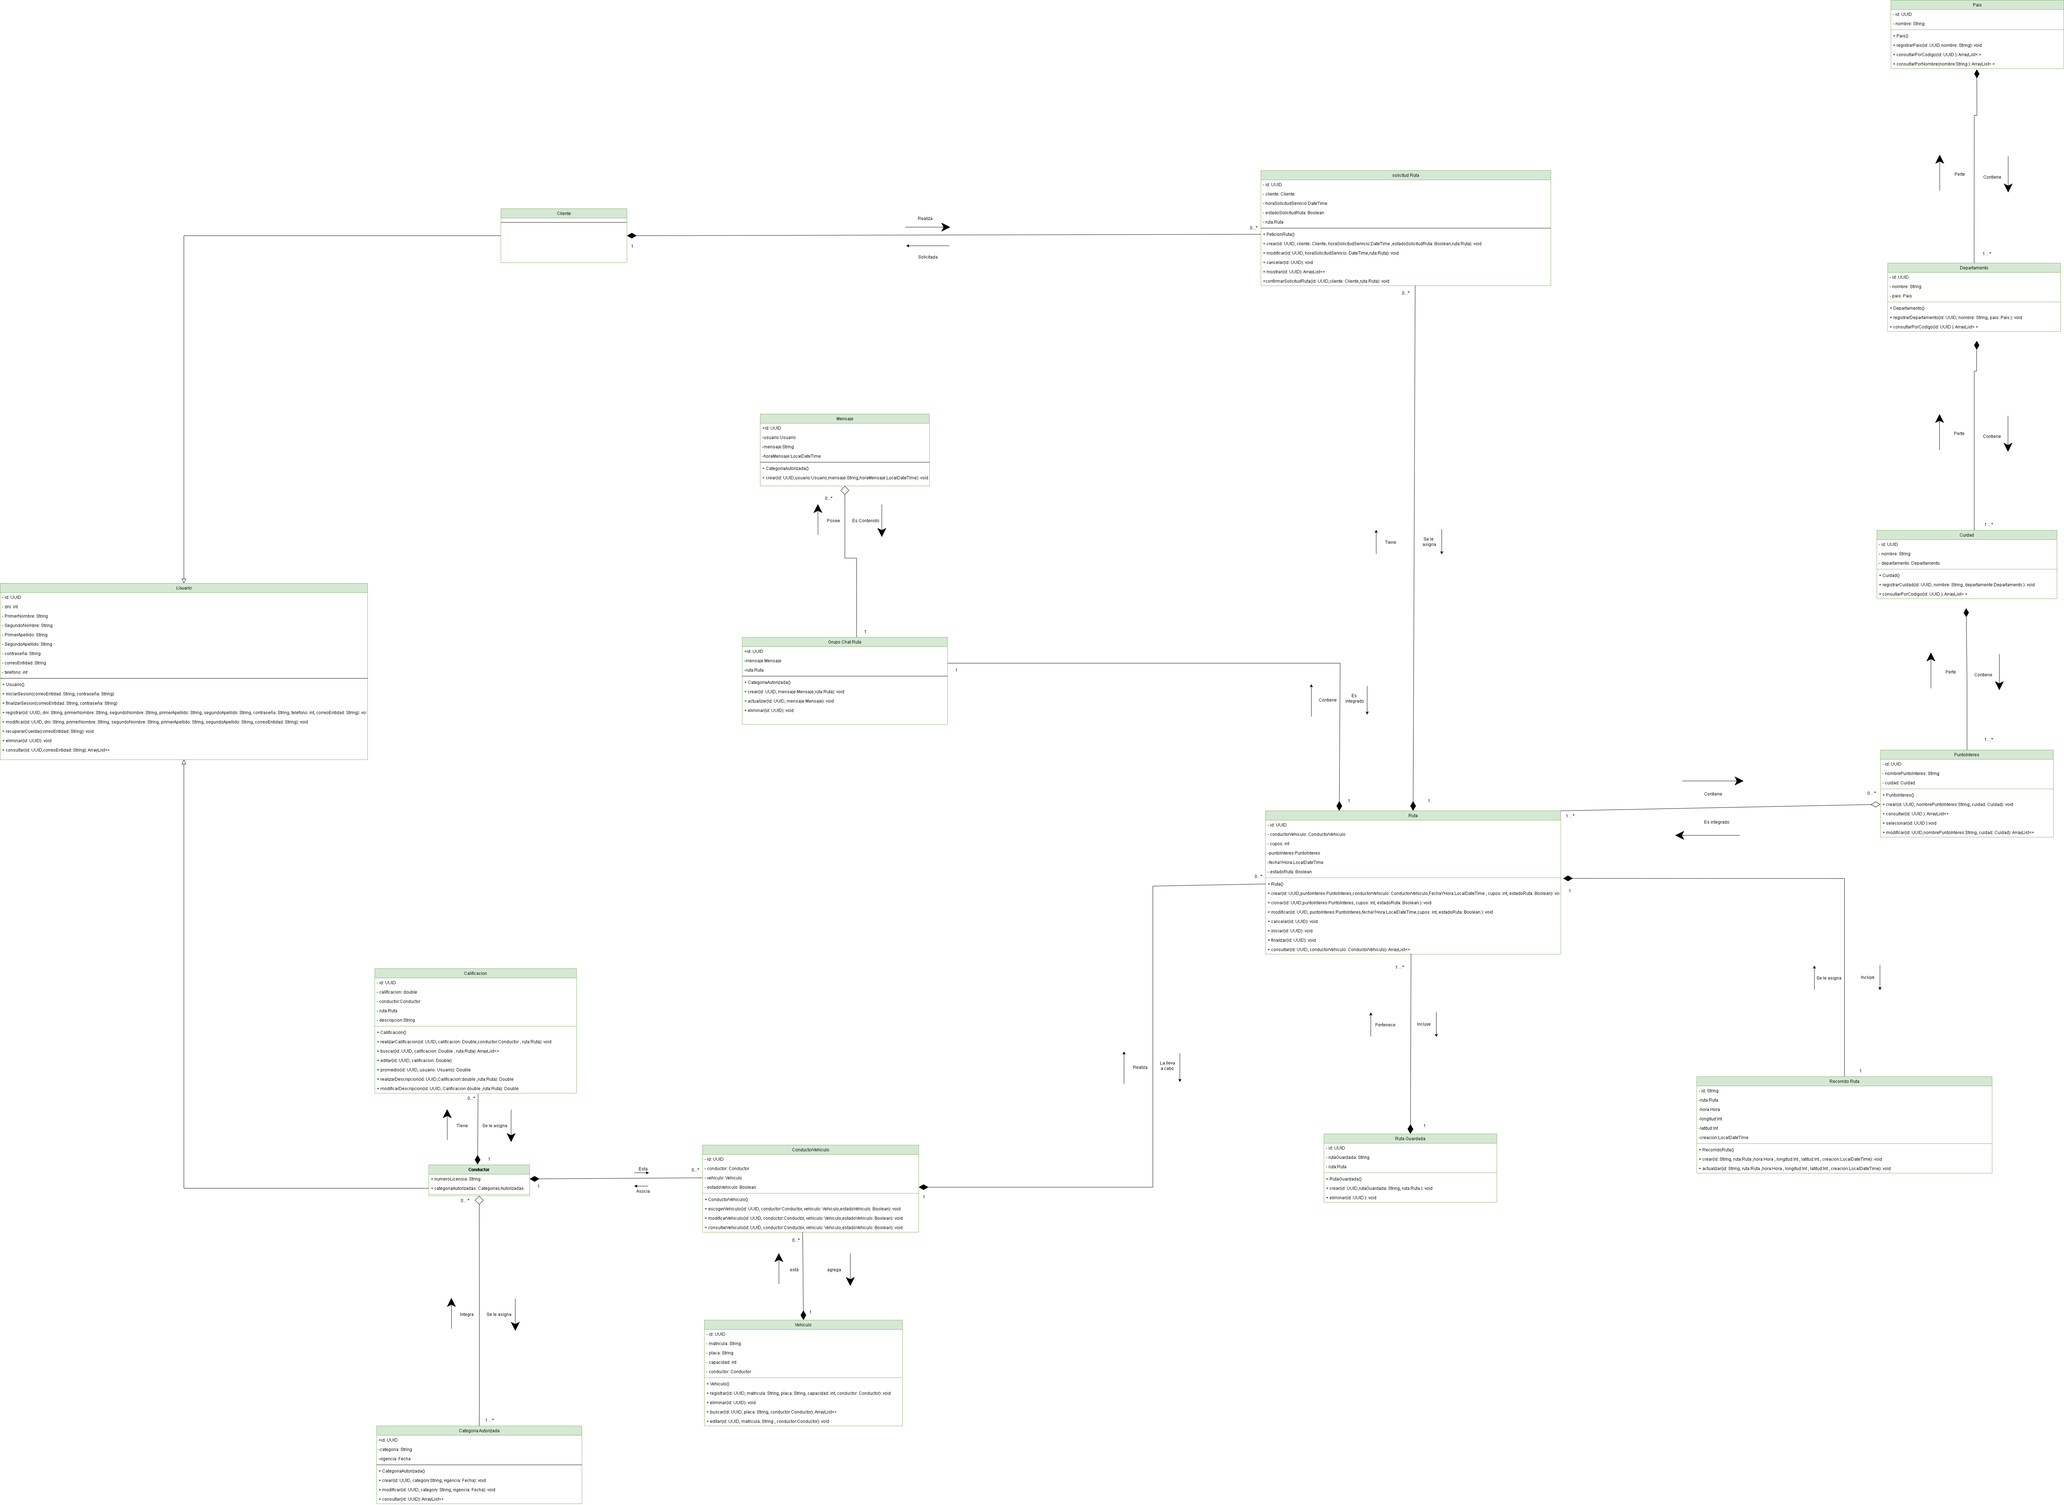
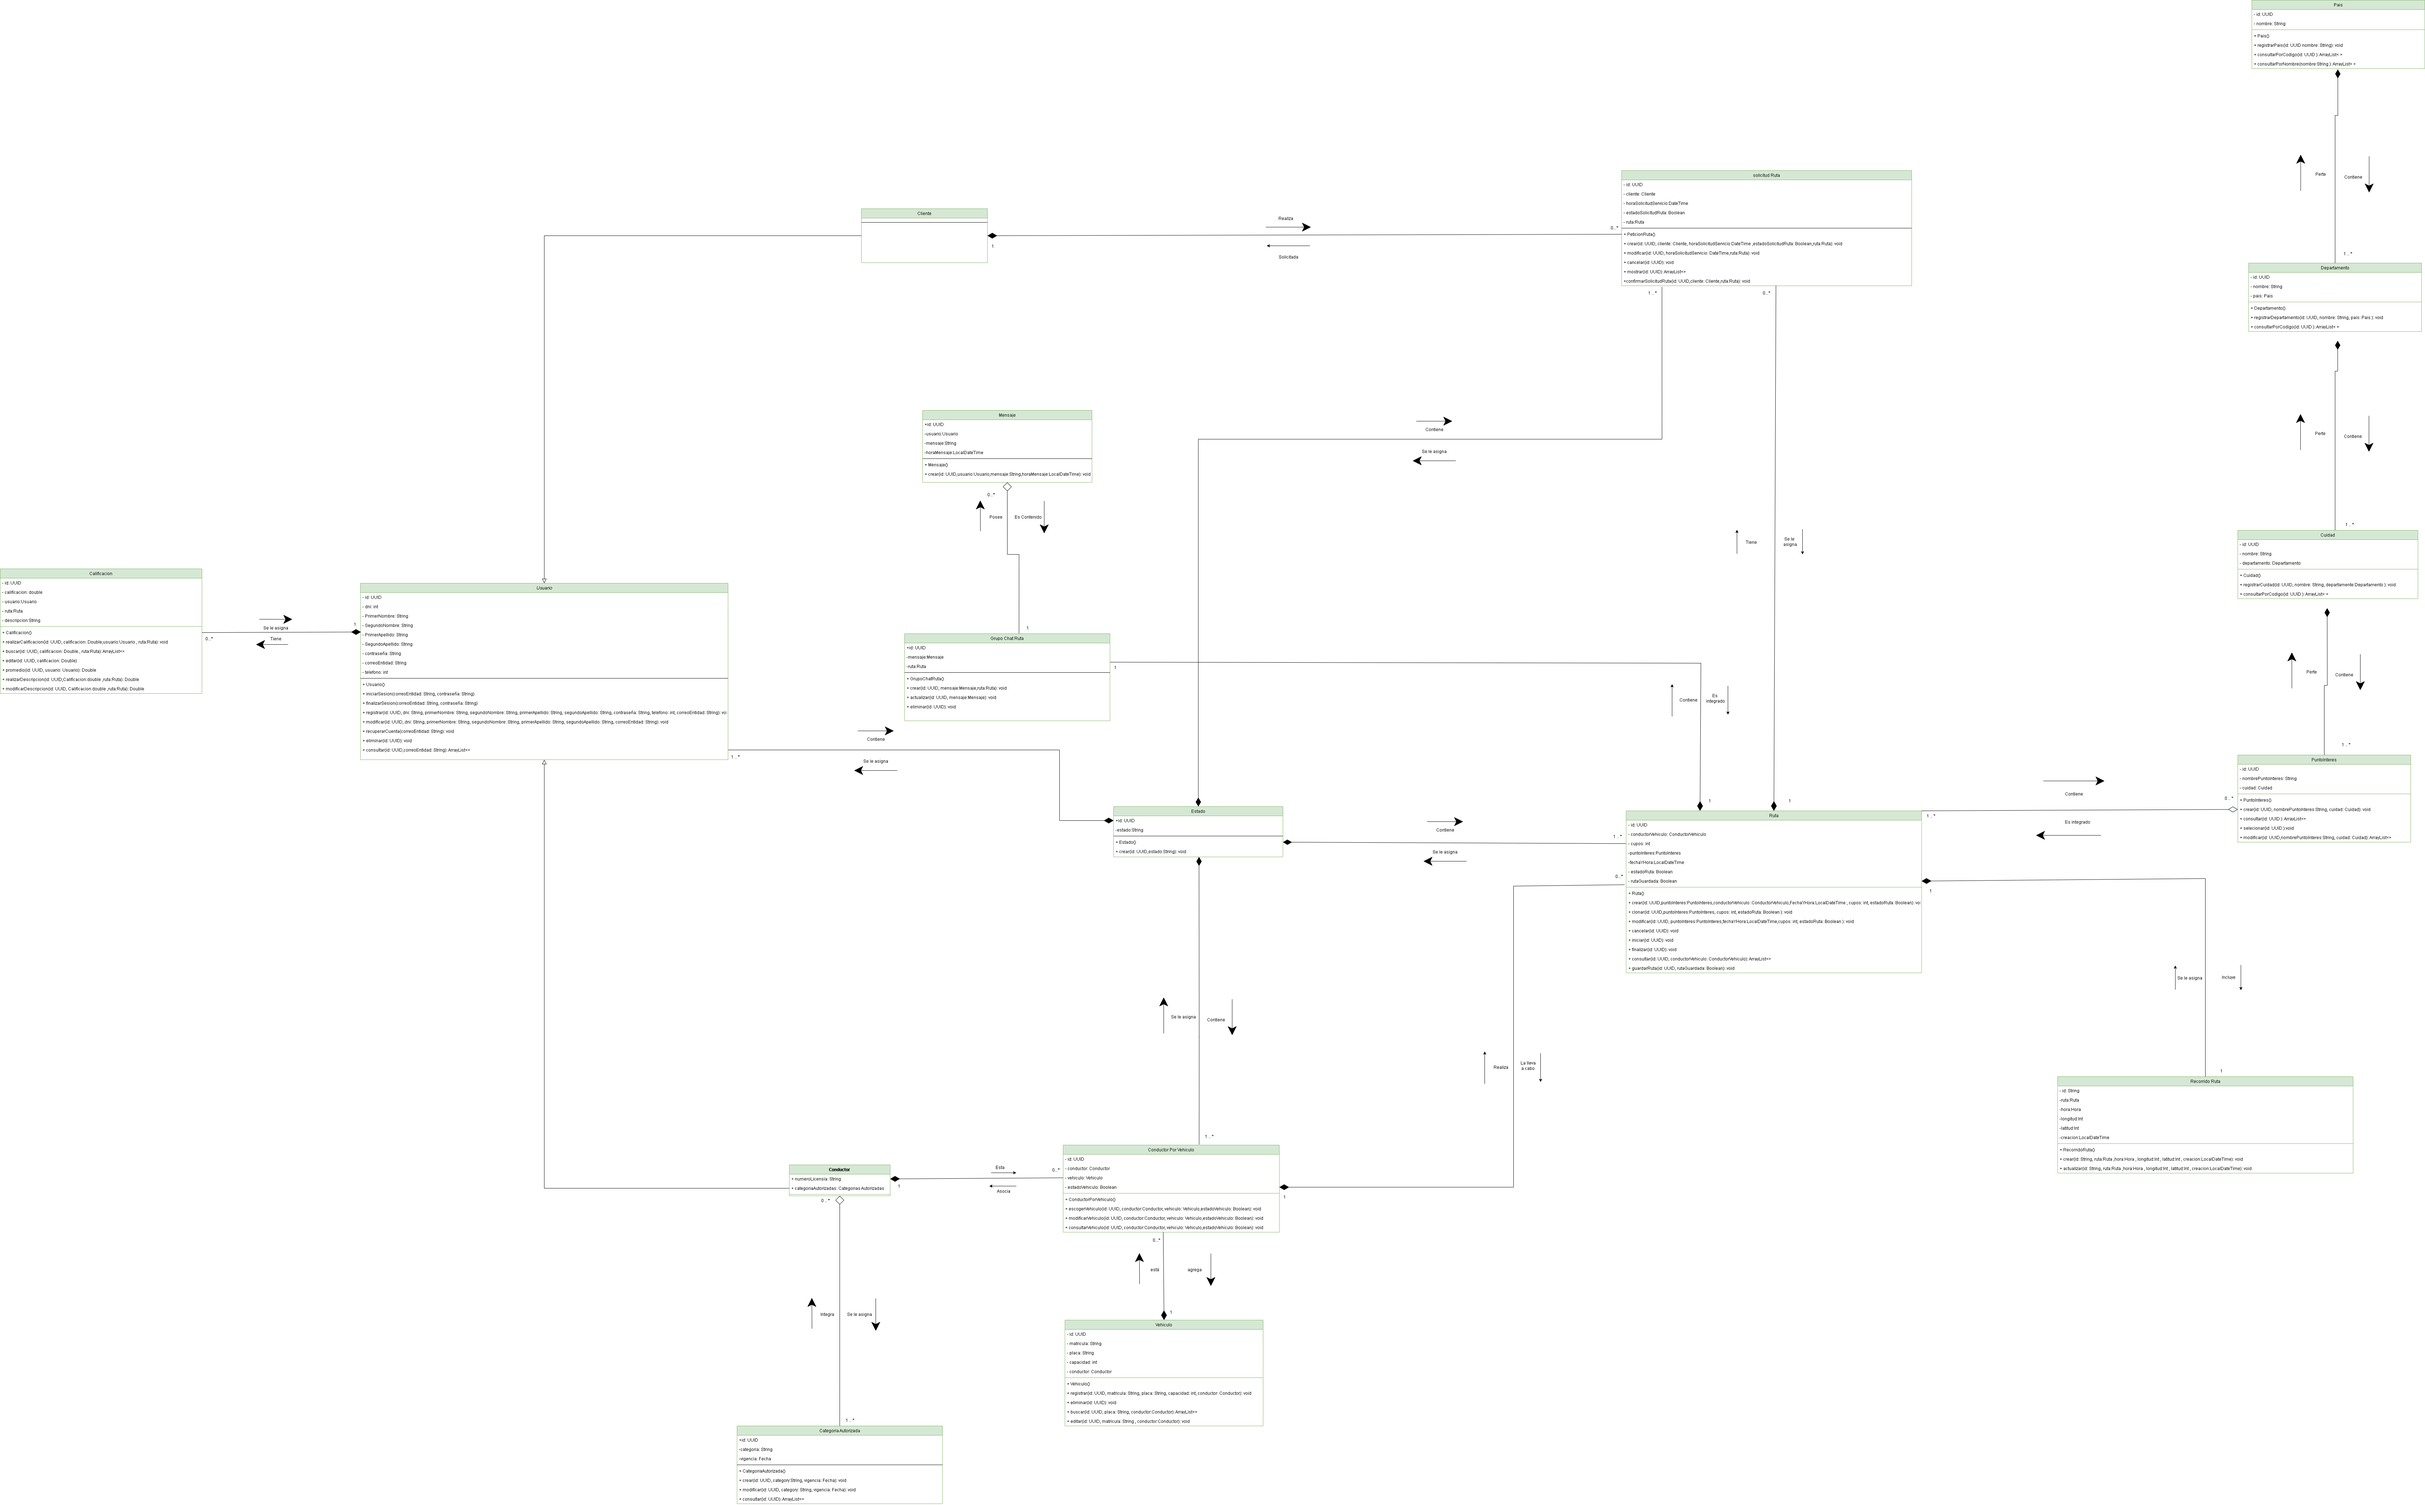
Se agrego la vista logica y vista de implementacio

diff --git a/Vista logica/Vista logica.md b/Vista logica/Vista logica.md
@@ -1,4 +1,7 @@
-# Modelado de dominio
+## 1.2.2.1 Diagrama de clases
+[Diagrama de clases](https://github.com/federico1605/Software2/blob/main/Imagenes/Diagrama-Clases/DiagramaDeClases.png)
+
+- Este diagrama de clases se creo con la necesidad de explicar cuales son las clases, metodos y atributos que tiene el proyecto de CarpoolingUCO, se muestra todos los metodos que cada clase puede crear, la comunicacion que se tienen entre las clases y cual son las clases que heredan, las clases que dependen de otras.
 
 **Cliente**
 
@@ -59,14 +62,3 @@ Objeto que tiene la funcion de especificar los departamentos que se registraron 
 **País**
 
 Objeto que tiene la funcion de especificar los diferentes paises registrados en la aplicación.
-
-Simulación de datos
-
-**Modelo de dominio**
-
-![Modelo de dominio](/Imagenes/Modelo-Dominio/ModeloDominio.png)
-
-
-**Modelado de de dominio enriquesido**
-
-![Modelo de dominio](/Imagenes/Modelo-Dominio/ModeloDominioEnriquesido.png)

diff --git a/Vista implementacion/Vista de implementacion.md b/Vista implementacion/Vista de implementacion.md
@@ -1,0 +1,4 @@
+## 1.2.2.3. Diagrama de paquetes:
+[](https://github.com/federico1605/Software2/blob/main/Imagenes/Vista implementacion/Diagrama de paquetes.png)
+
+- Este diagrama representa la estructura general del proyecto CarpoolingUCO, representa cuales paquetes se conecta con otros, como es la direccion de llamados y cuales son todos los paquetes que hay dentro del proyecto.
